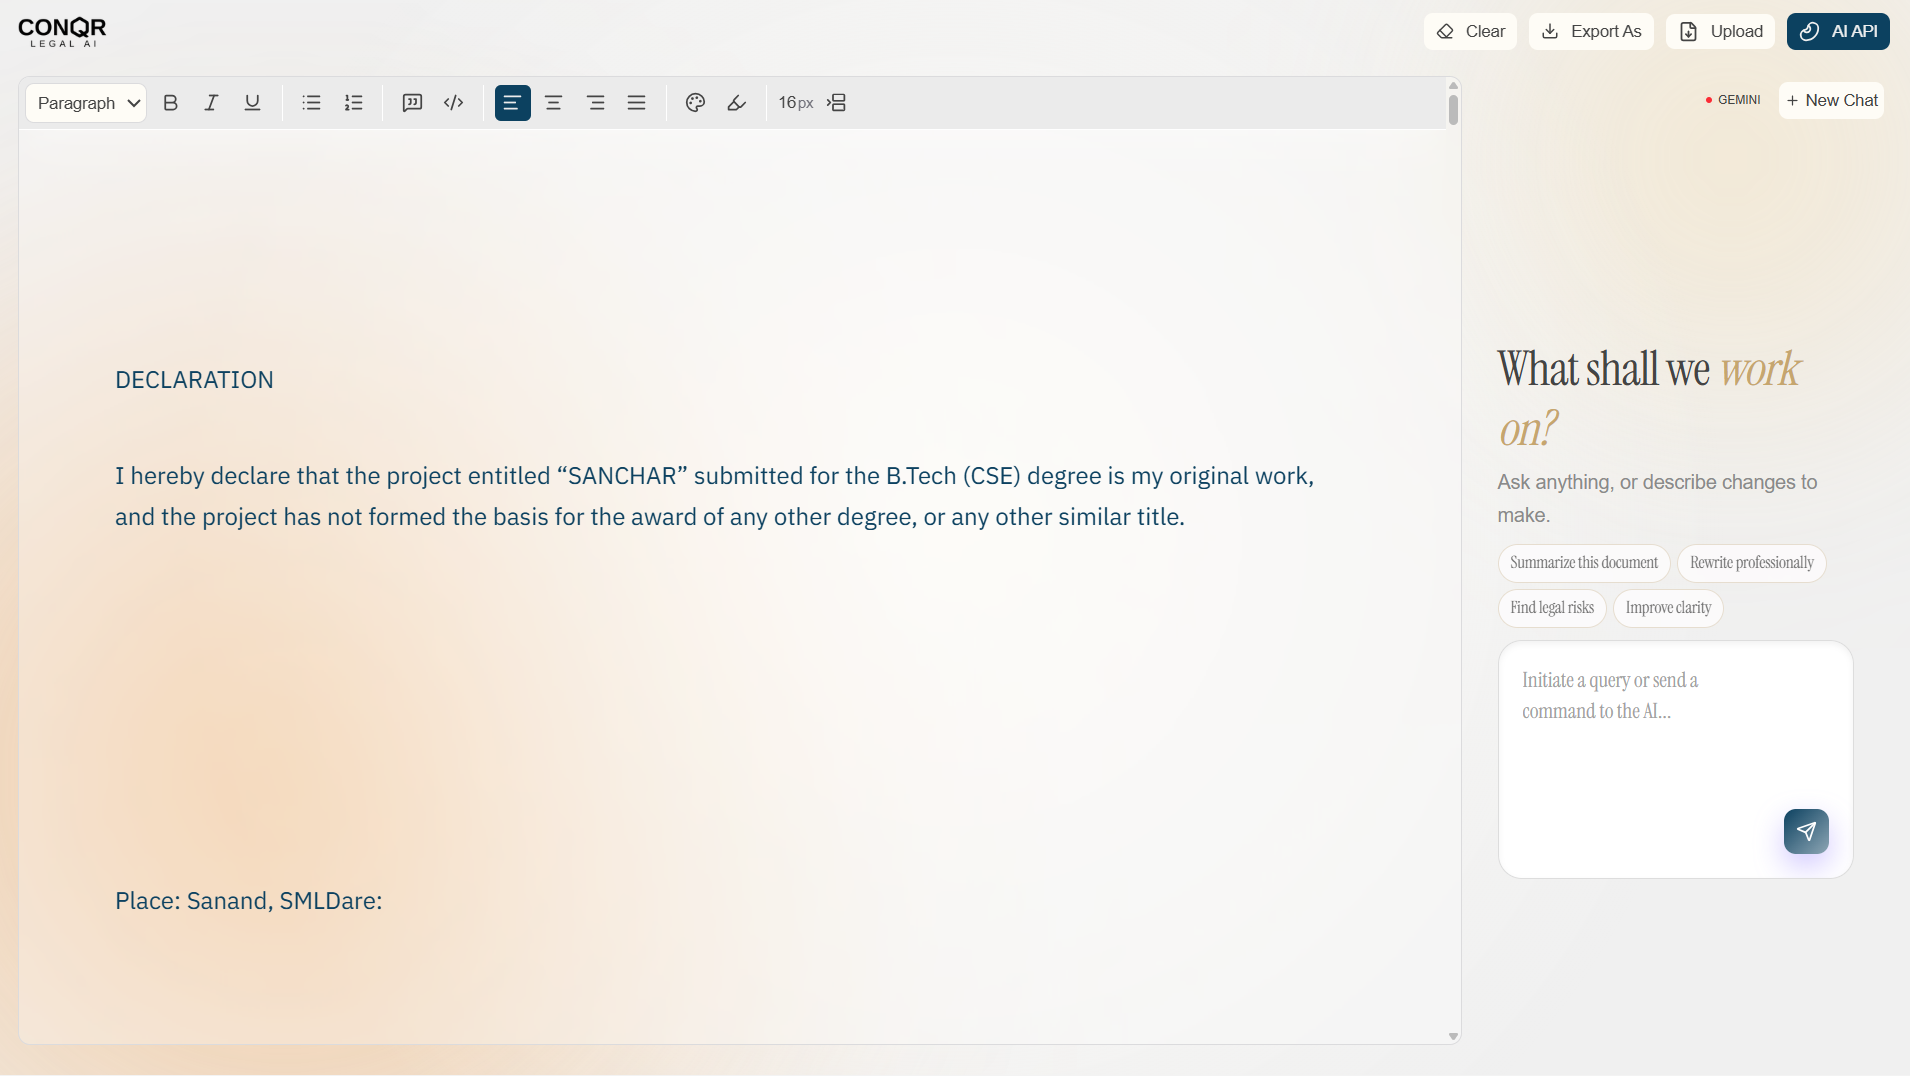
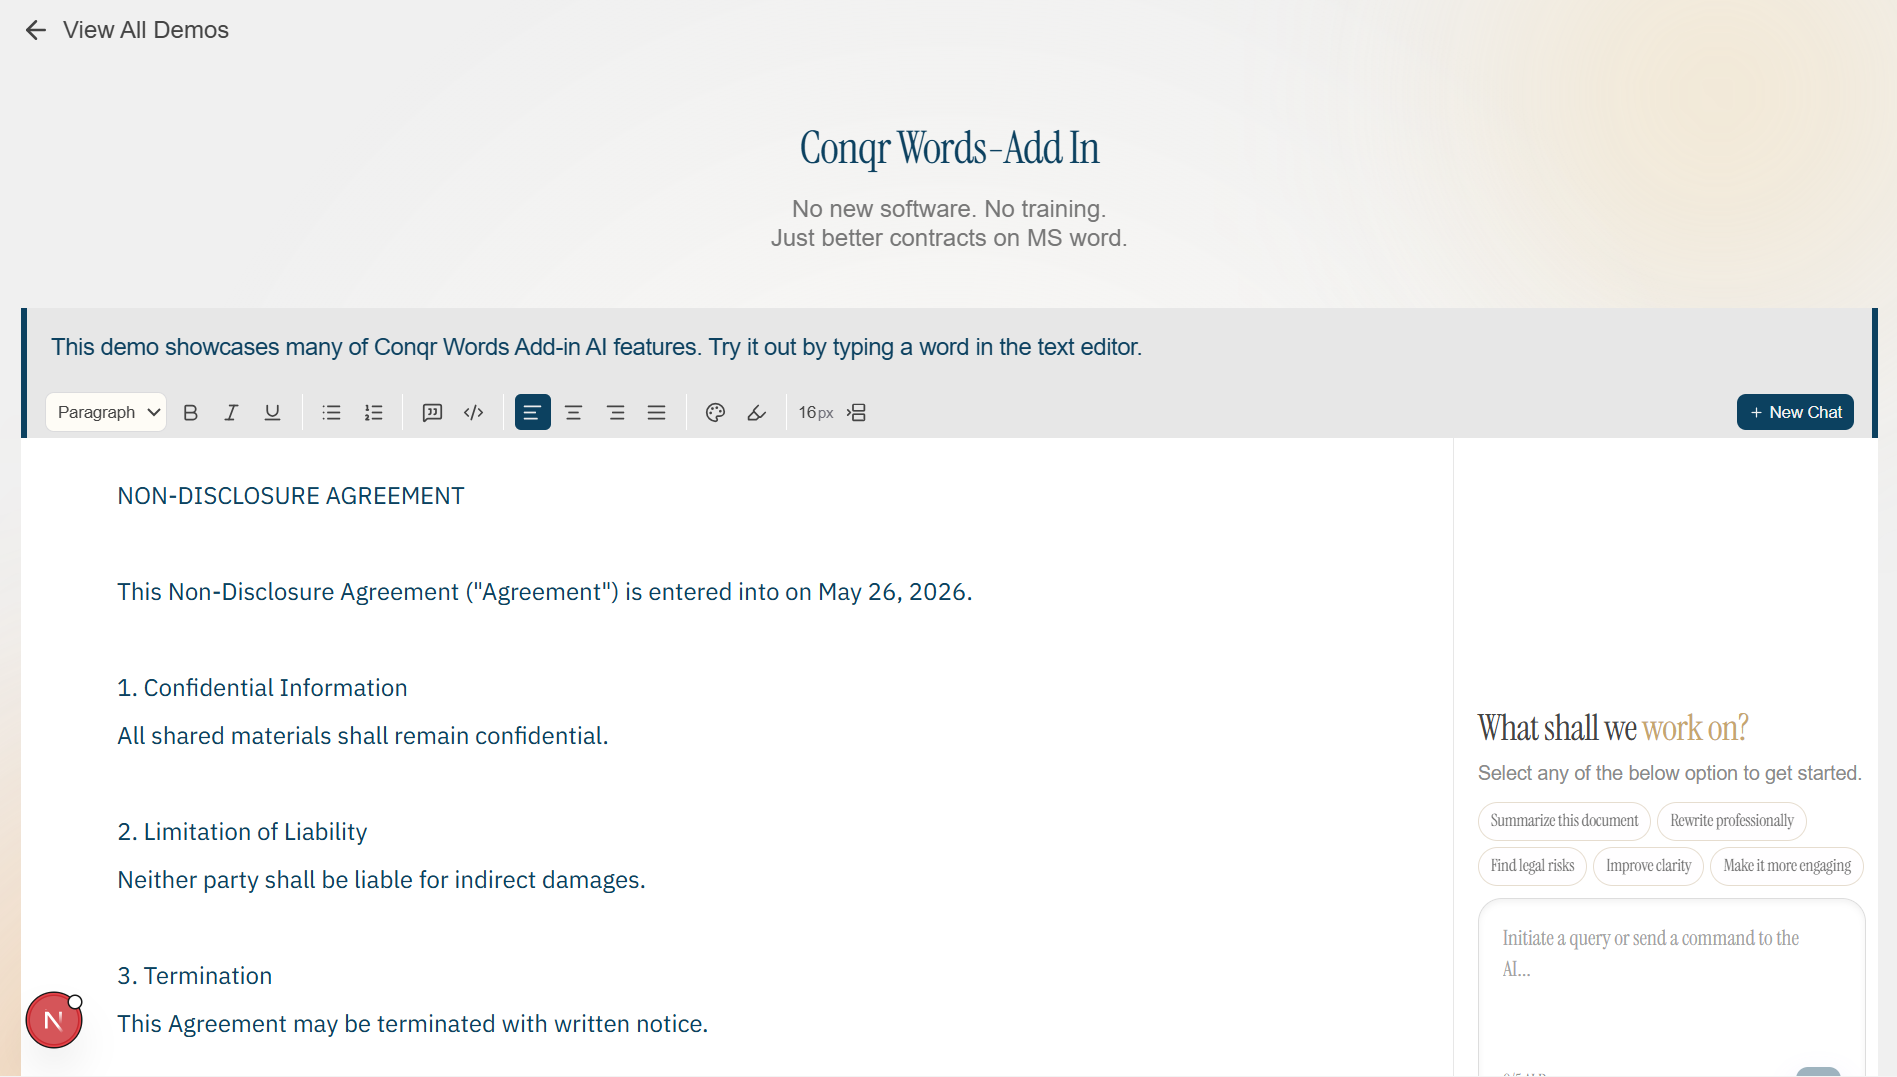
fixed small bug

diff --git a/src/components/layout/Header.jsx b/src/components/layout/Header.jsx
@@ -15,22 +15,6 @@ export default function Header() {
         >
           <Image src={logo} alt="Logo" className="h-10 w-fit" />
         </Link>
-
-        <nav className="flex items-center gap-6">
-          <Link
-            href="/"
-            className="text-sm text-gray-600 hover:text-black transition"
-          >
-            Home
-          </Link>
-
-          <Link
-            href="/workspace"
-            className="text-sm text-gray-600 hover:text-black transition"
-          >
-            <PrimaryButton children="Workspace" />
-          </Link>
-        </nav>
       </div>
     </header>
   );